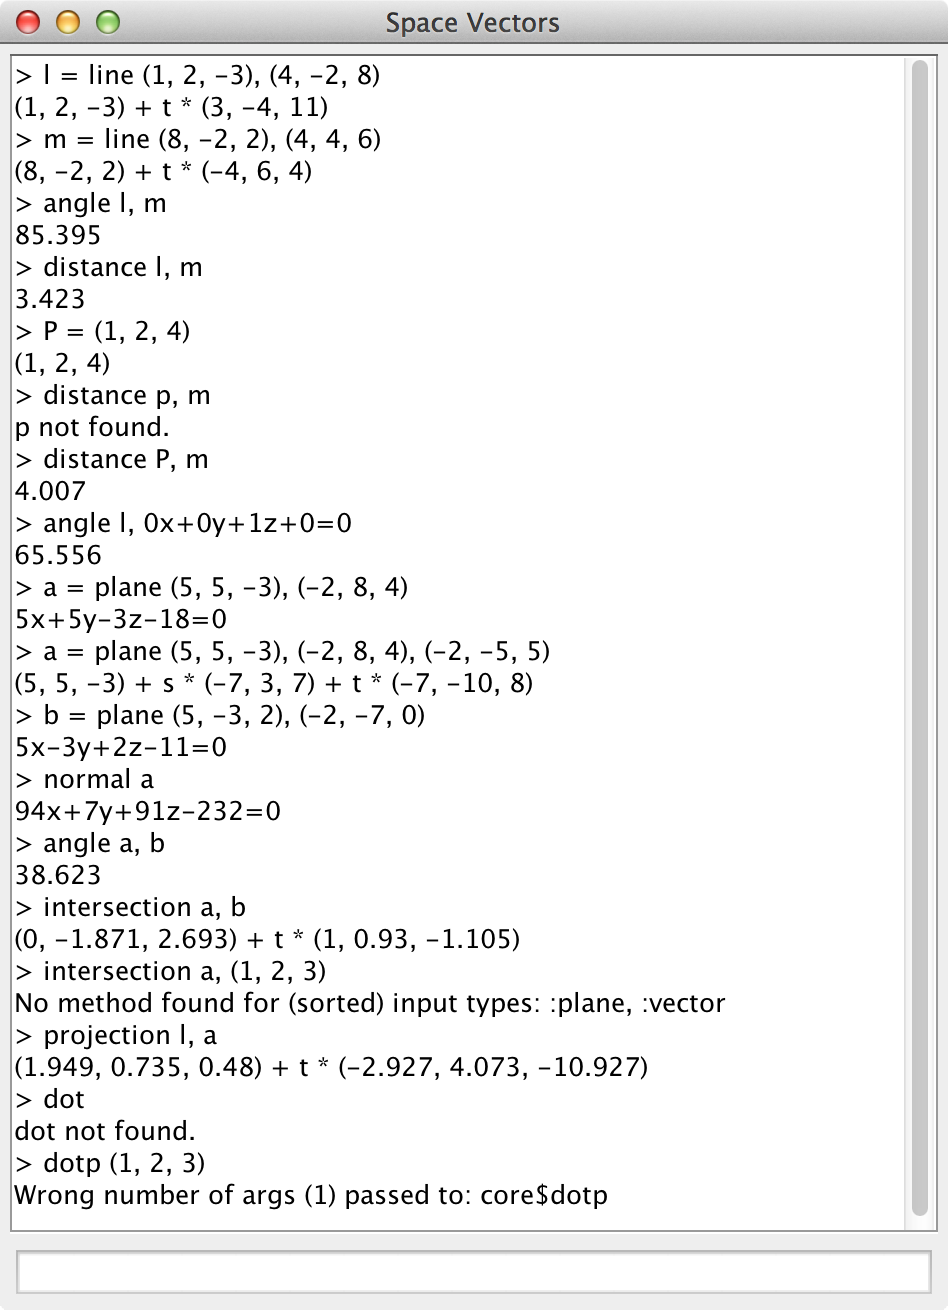
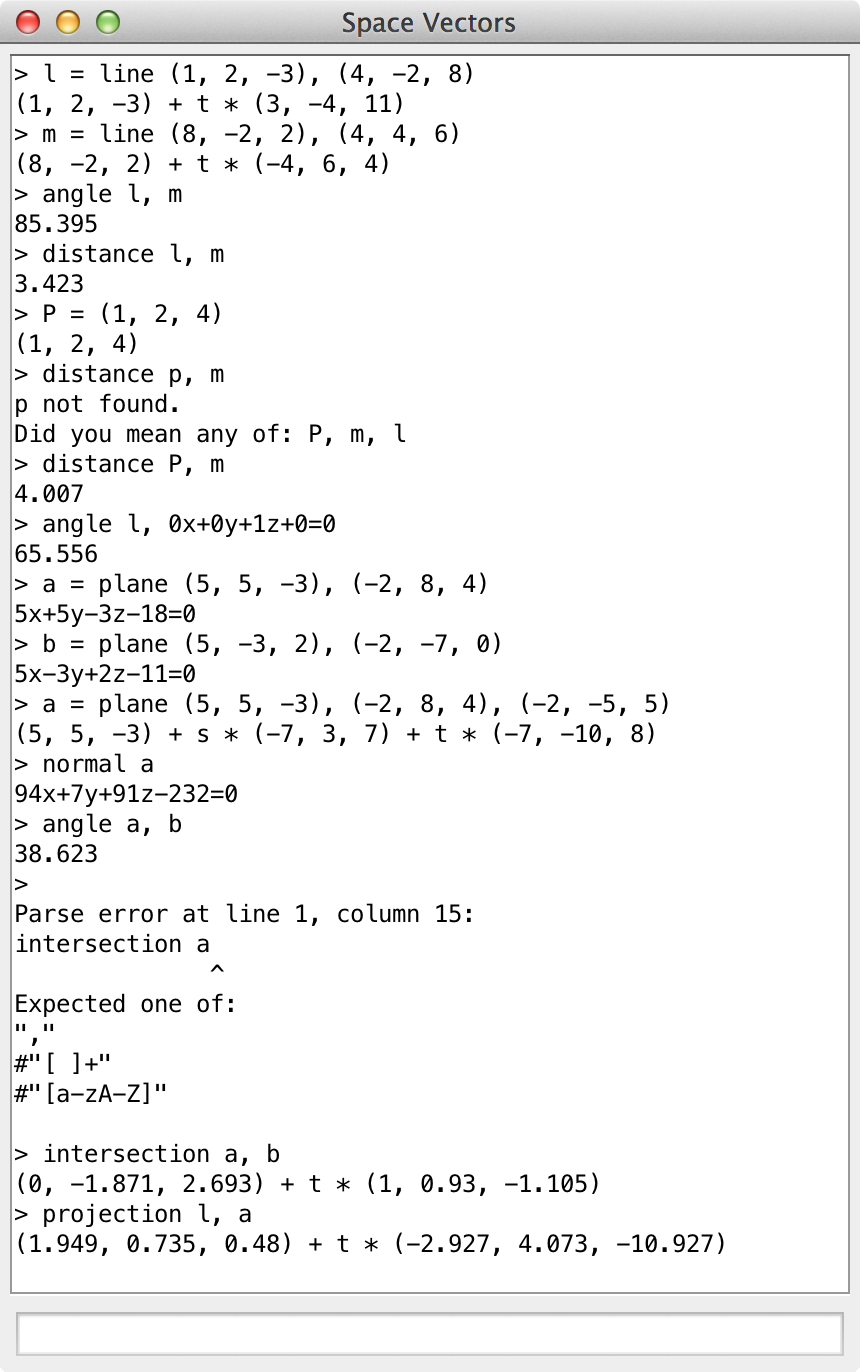
V. 1.0.0! * Improved parsing error-messages in the gui with monospaced font. * Stricter parsing and better errors * Nicer history in the gui * Allow variables in some elements, such as vectors * Add intersecion between :line and :plane, and three :planes * Better pretty-printing of numbers * Bug fix

diff --git a/README.md b/README.md
@@ -73,7 +73,7 @@ One can nest functions by wrapping them in parenthesis: `dotp 1 2 3, (cross 1 2 
 As of 1.0.0-BETA there's now a GUI.
 Just download and double-click the jar-file.
 
-[space-vectors.jar](https://www.dropbox.com/s/u1ce92enajqmkel/space-vectors-1.0.0-BETA-standalone.jar)
+[space-vectors.jar](https://www.dropbox.com/s/gyxdoi863iq78pl/space-vectors-1.0.0-standalone.jar)
 
 ## Thanks
 Thanks to [Instaparse](https://github.com/Engelberg/instaparse) for the extensive documentation and the excellent library for parsing user input.
